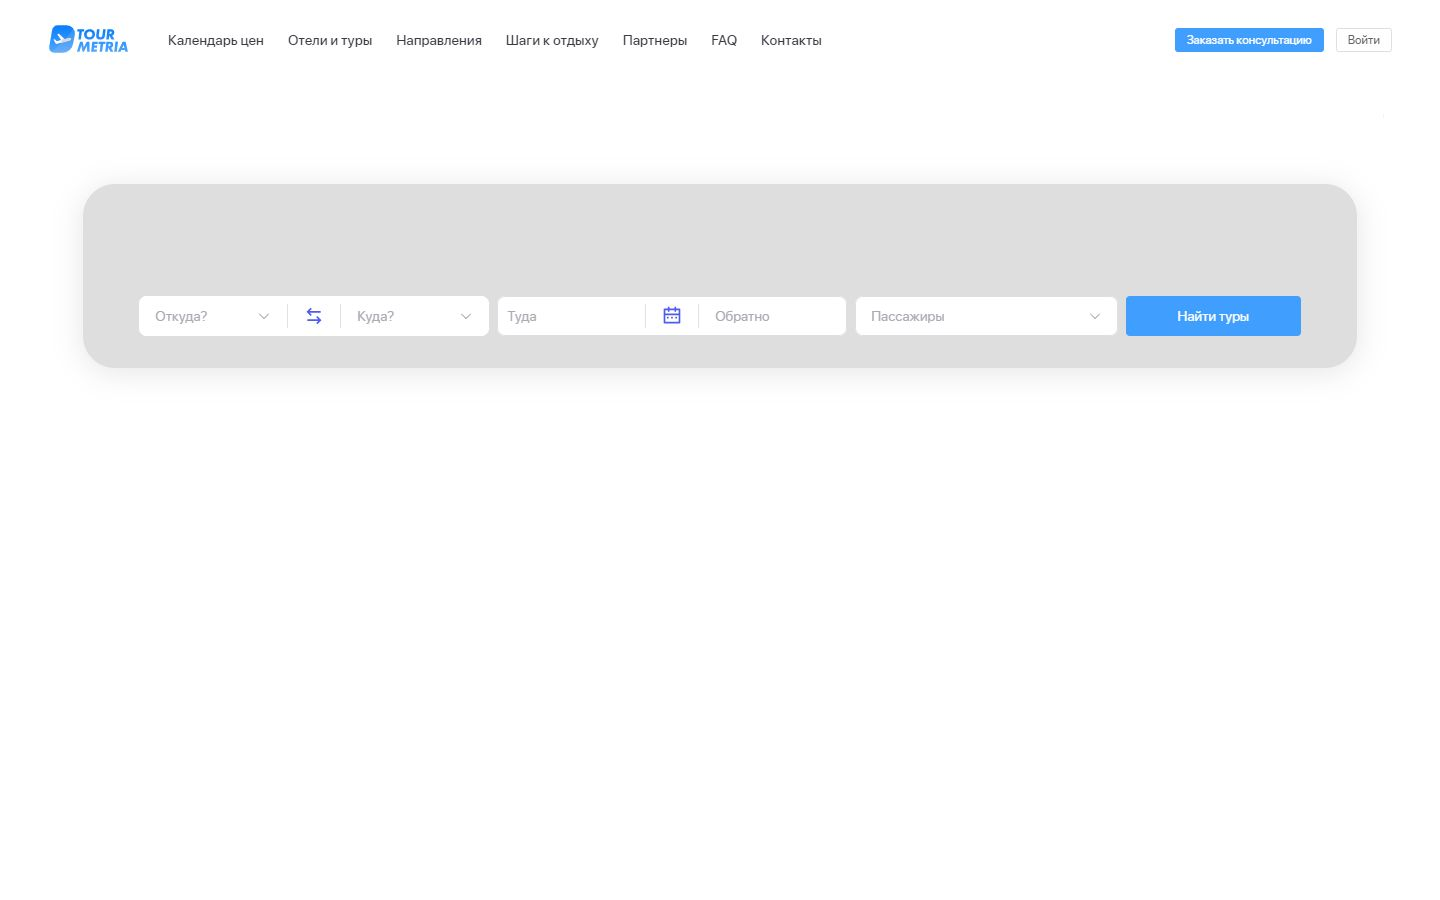
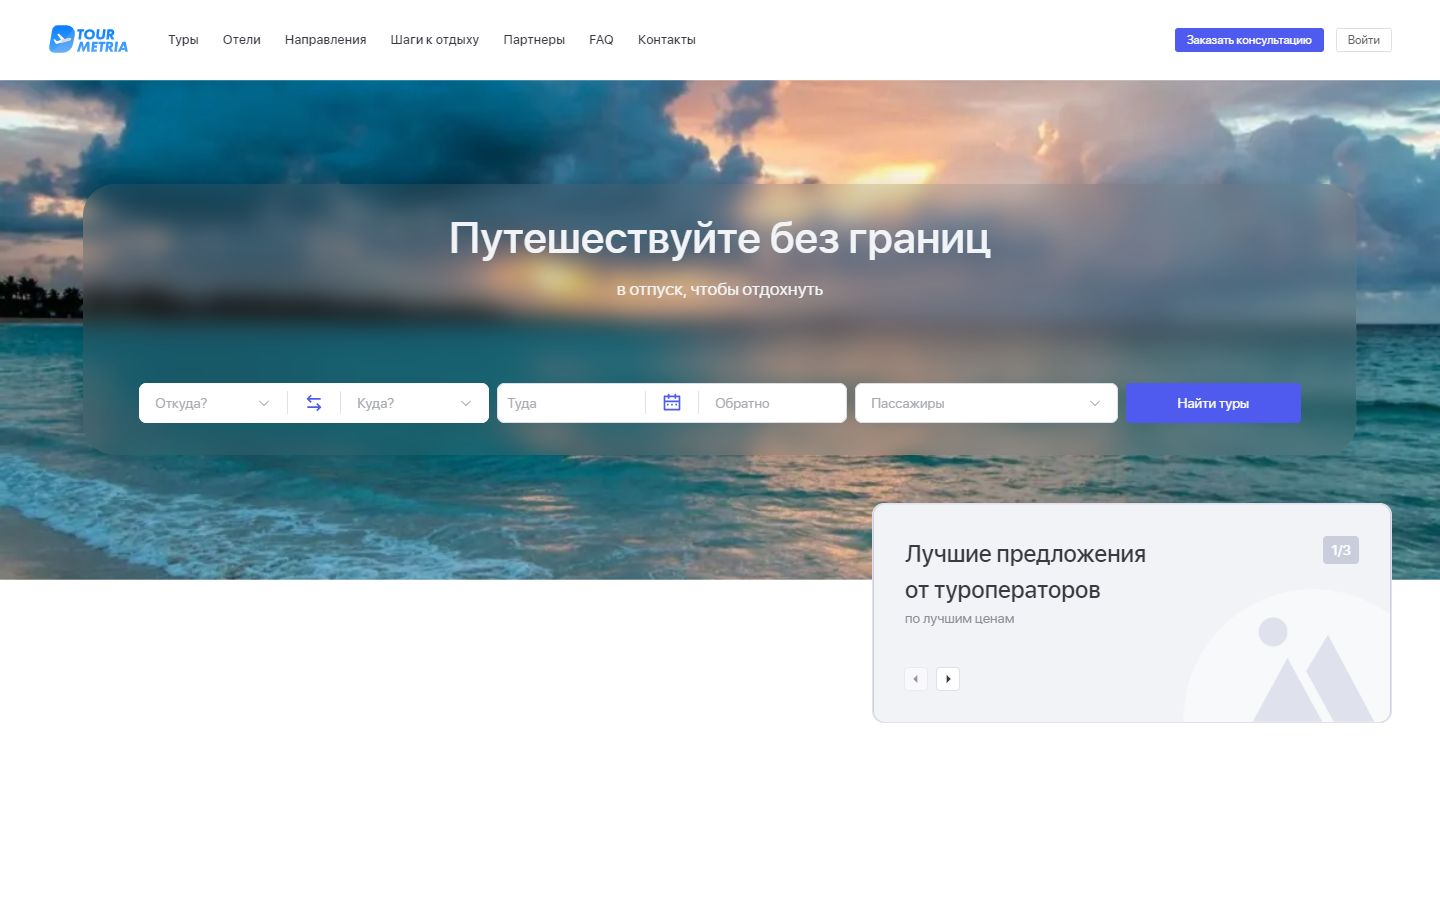
feat: update projects images

diff --git a/assets/js/puppeter.js b/assets/js/puppeter.js
@@ -5,7 +5,7 @@ const getImage = async (url, name) => {
         const browser = await puppeteer.launch({headless: 'new'});
         const page = await browser.newPage();
         await page.goto(url);
-        await page.waitForTimeout(3000);
+        await page.waitForTimeout(10000);
         await page.setViewport({width: 1440, height: 900});
         await page.screenshot({path: `public/images/projects/${name}.jpg`})
 
@@ -18,18 +18,18 @@ const getImage = async (url, name) => {
 
 const generate = () => {
     const works = [
-        {
-            slug: 'sarawan',
-            link: 'https://sarawan.ru/',
-        },
+        // {
+        //     slug: 'sarawan',
+        //     link: 'https://sarawan.ru/',
+        // },
         {
             slug: 'lyaman',
             link: 'https://lyaman-askerova.kz/',
         },
-        {
-            slug: 'livesimply',
-            link: 'https://live-simply.askarov.dev/',
-        },
+        // {
+        //     slug: 'livesimply',
+        //     link: 'https://live-simply.askarov.dev/',
+        // },
         // {
         //     slug: 'tourmetria',
         //     link: 'https://tourmetria:tourmetria_secret_1@tourmetria.tsacloud.com/',
@@ -38,22 +38,22 @@ const generate = () => {
         //     slug: 'dachboard',
         //     link: 'https://dashboard.askarov.dev/',
         // },
-        {
-            slug: 'topogeo',
-            link: 'https://zionell.github.io/Topogeo/',
-        },
-        {
-            slug: 'the-brand',
-            link: 'https://zionell.github.io/The-brand/',
-        },
-        {
-            slug: 'rendered',
-            link: 'https://zionell.github.io/rendered/',
-        },
-        {
-            slug: 'mogo',
-            link: 'https://zionell.github.io/mogo/',
-        },
+        // {
+        //     slug: 'topogeo',
+        //     link: 'https://zionell.github.io/Topogeo/',
+        // },
+        // {
+        //     slug: 'the-brand',
+        //     link: 'https://zionell.github.io/The-brand/',
+        // },
+        // {
+        //     slug: 'rendered',
+        //     link: 'https://zionell.github.io/rendered/',
+        // },
+        // {
+        //     slug: 'mogo',
+        //     link: 'https://zionell.github.io/mogo/',
+        // },
     ]
 
     works.forEach(w => getImage(w.link, w.slug))
